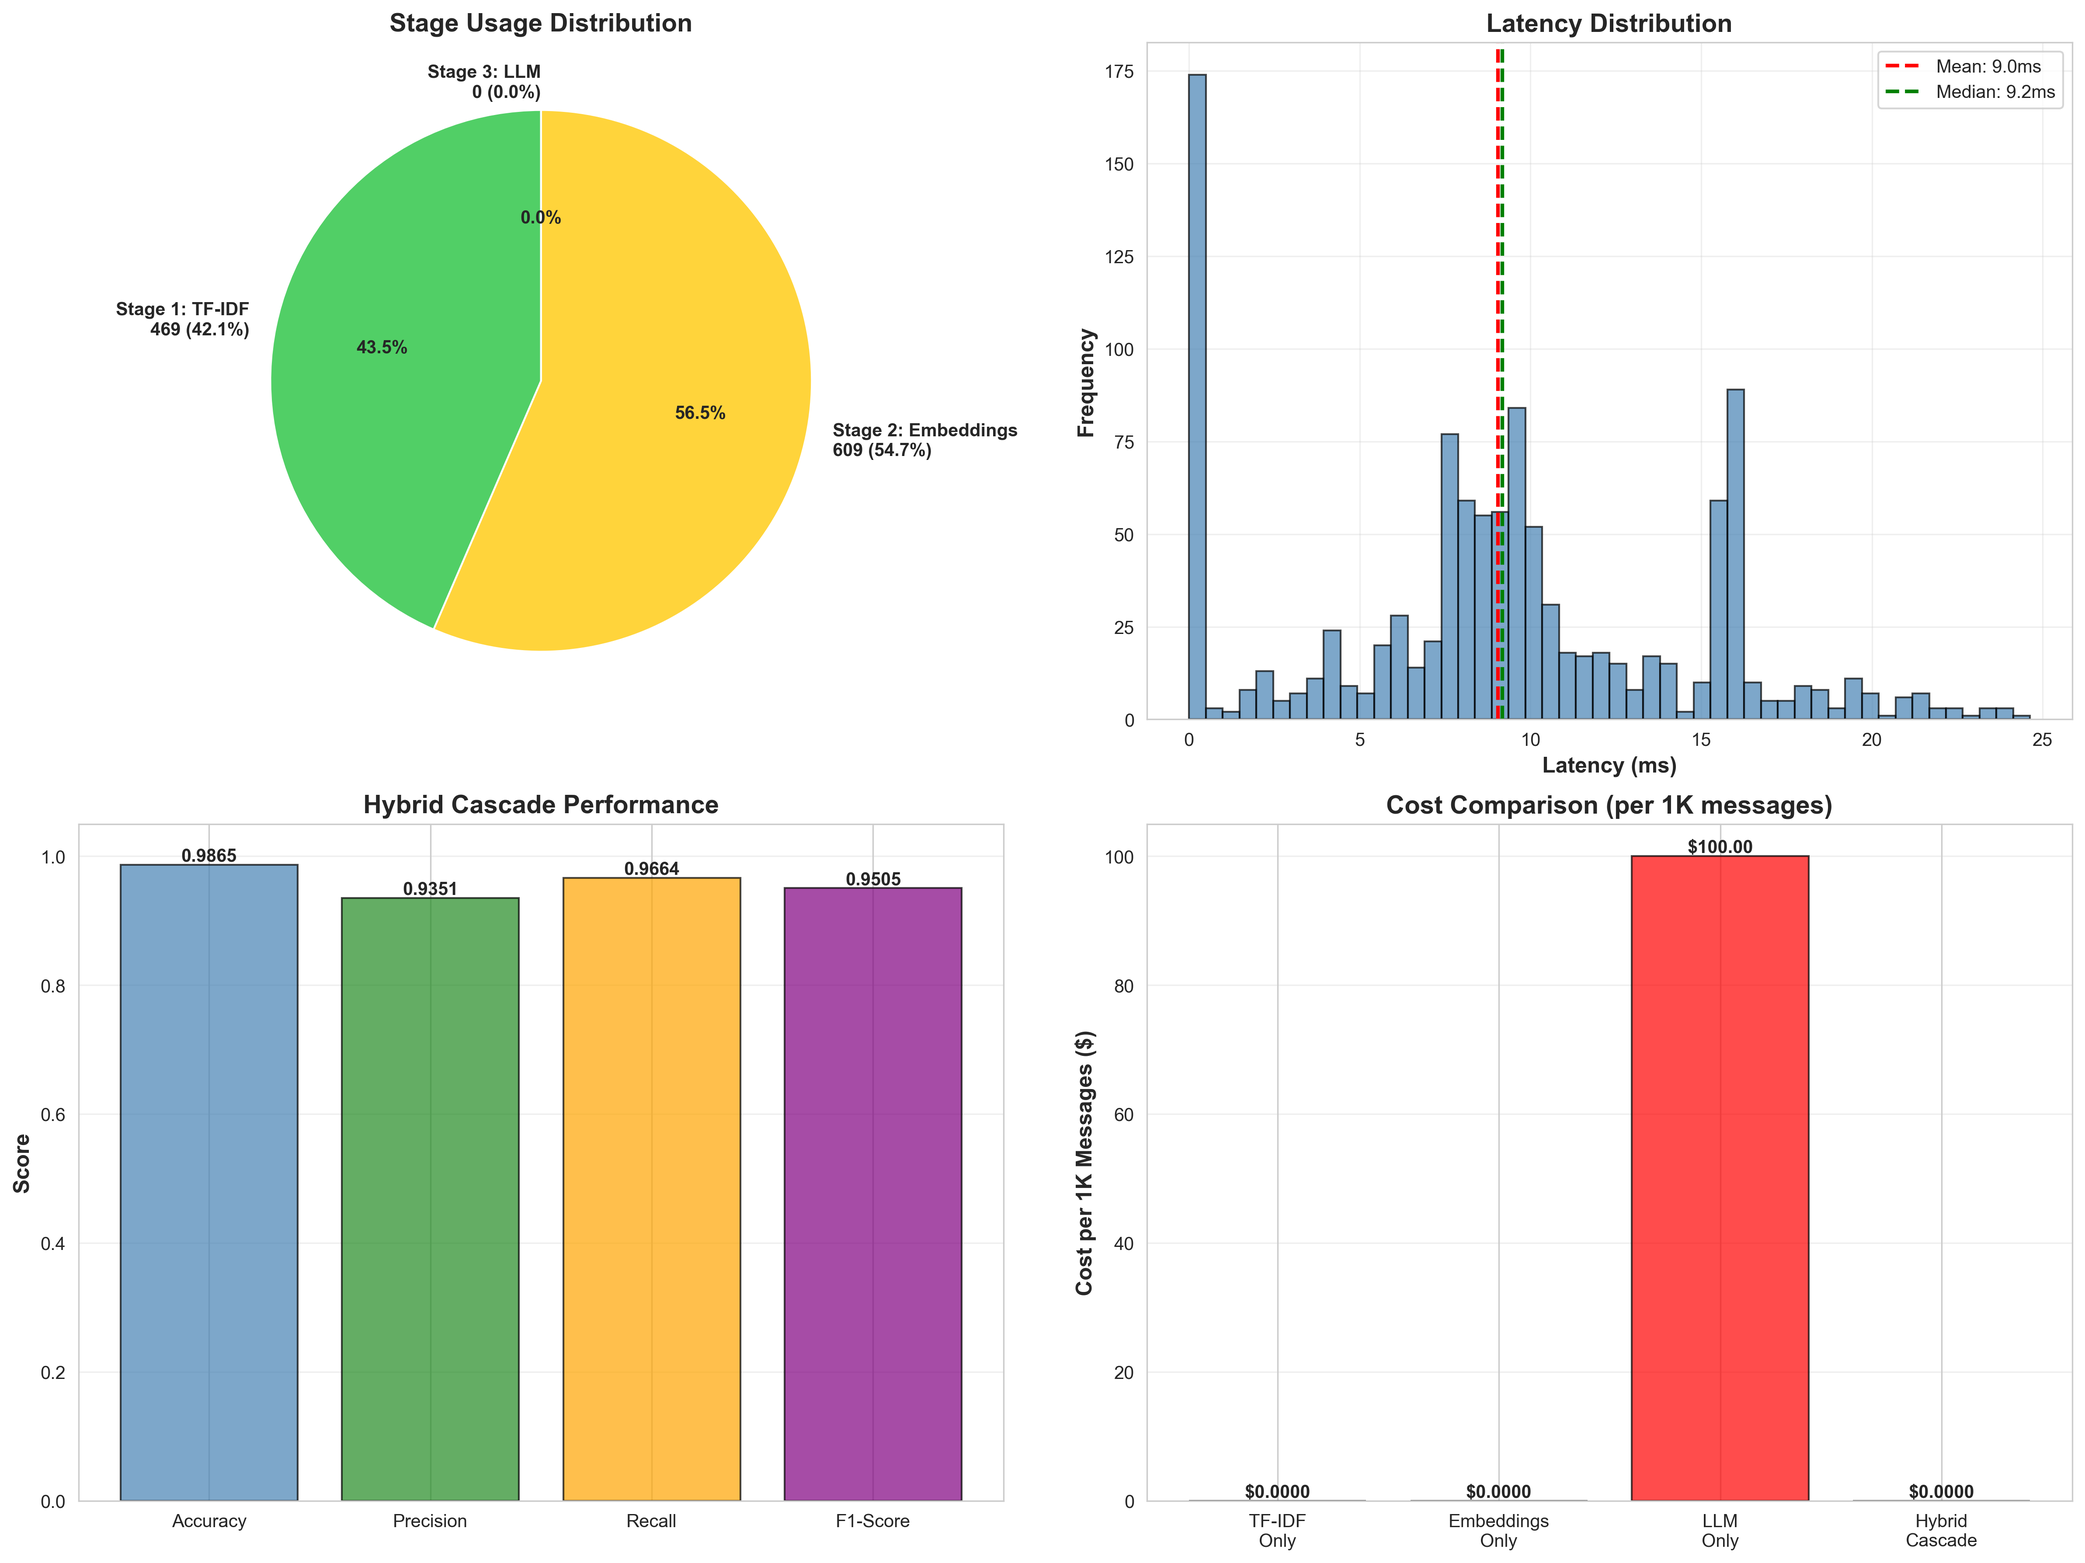
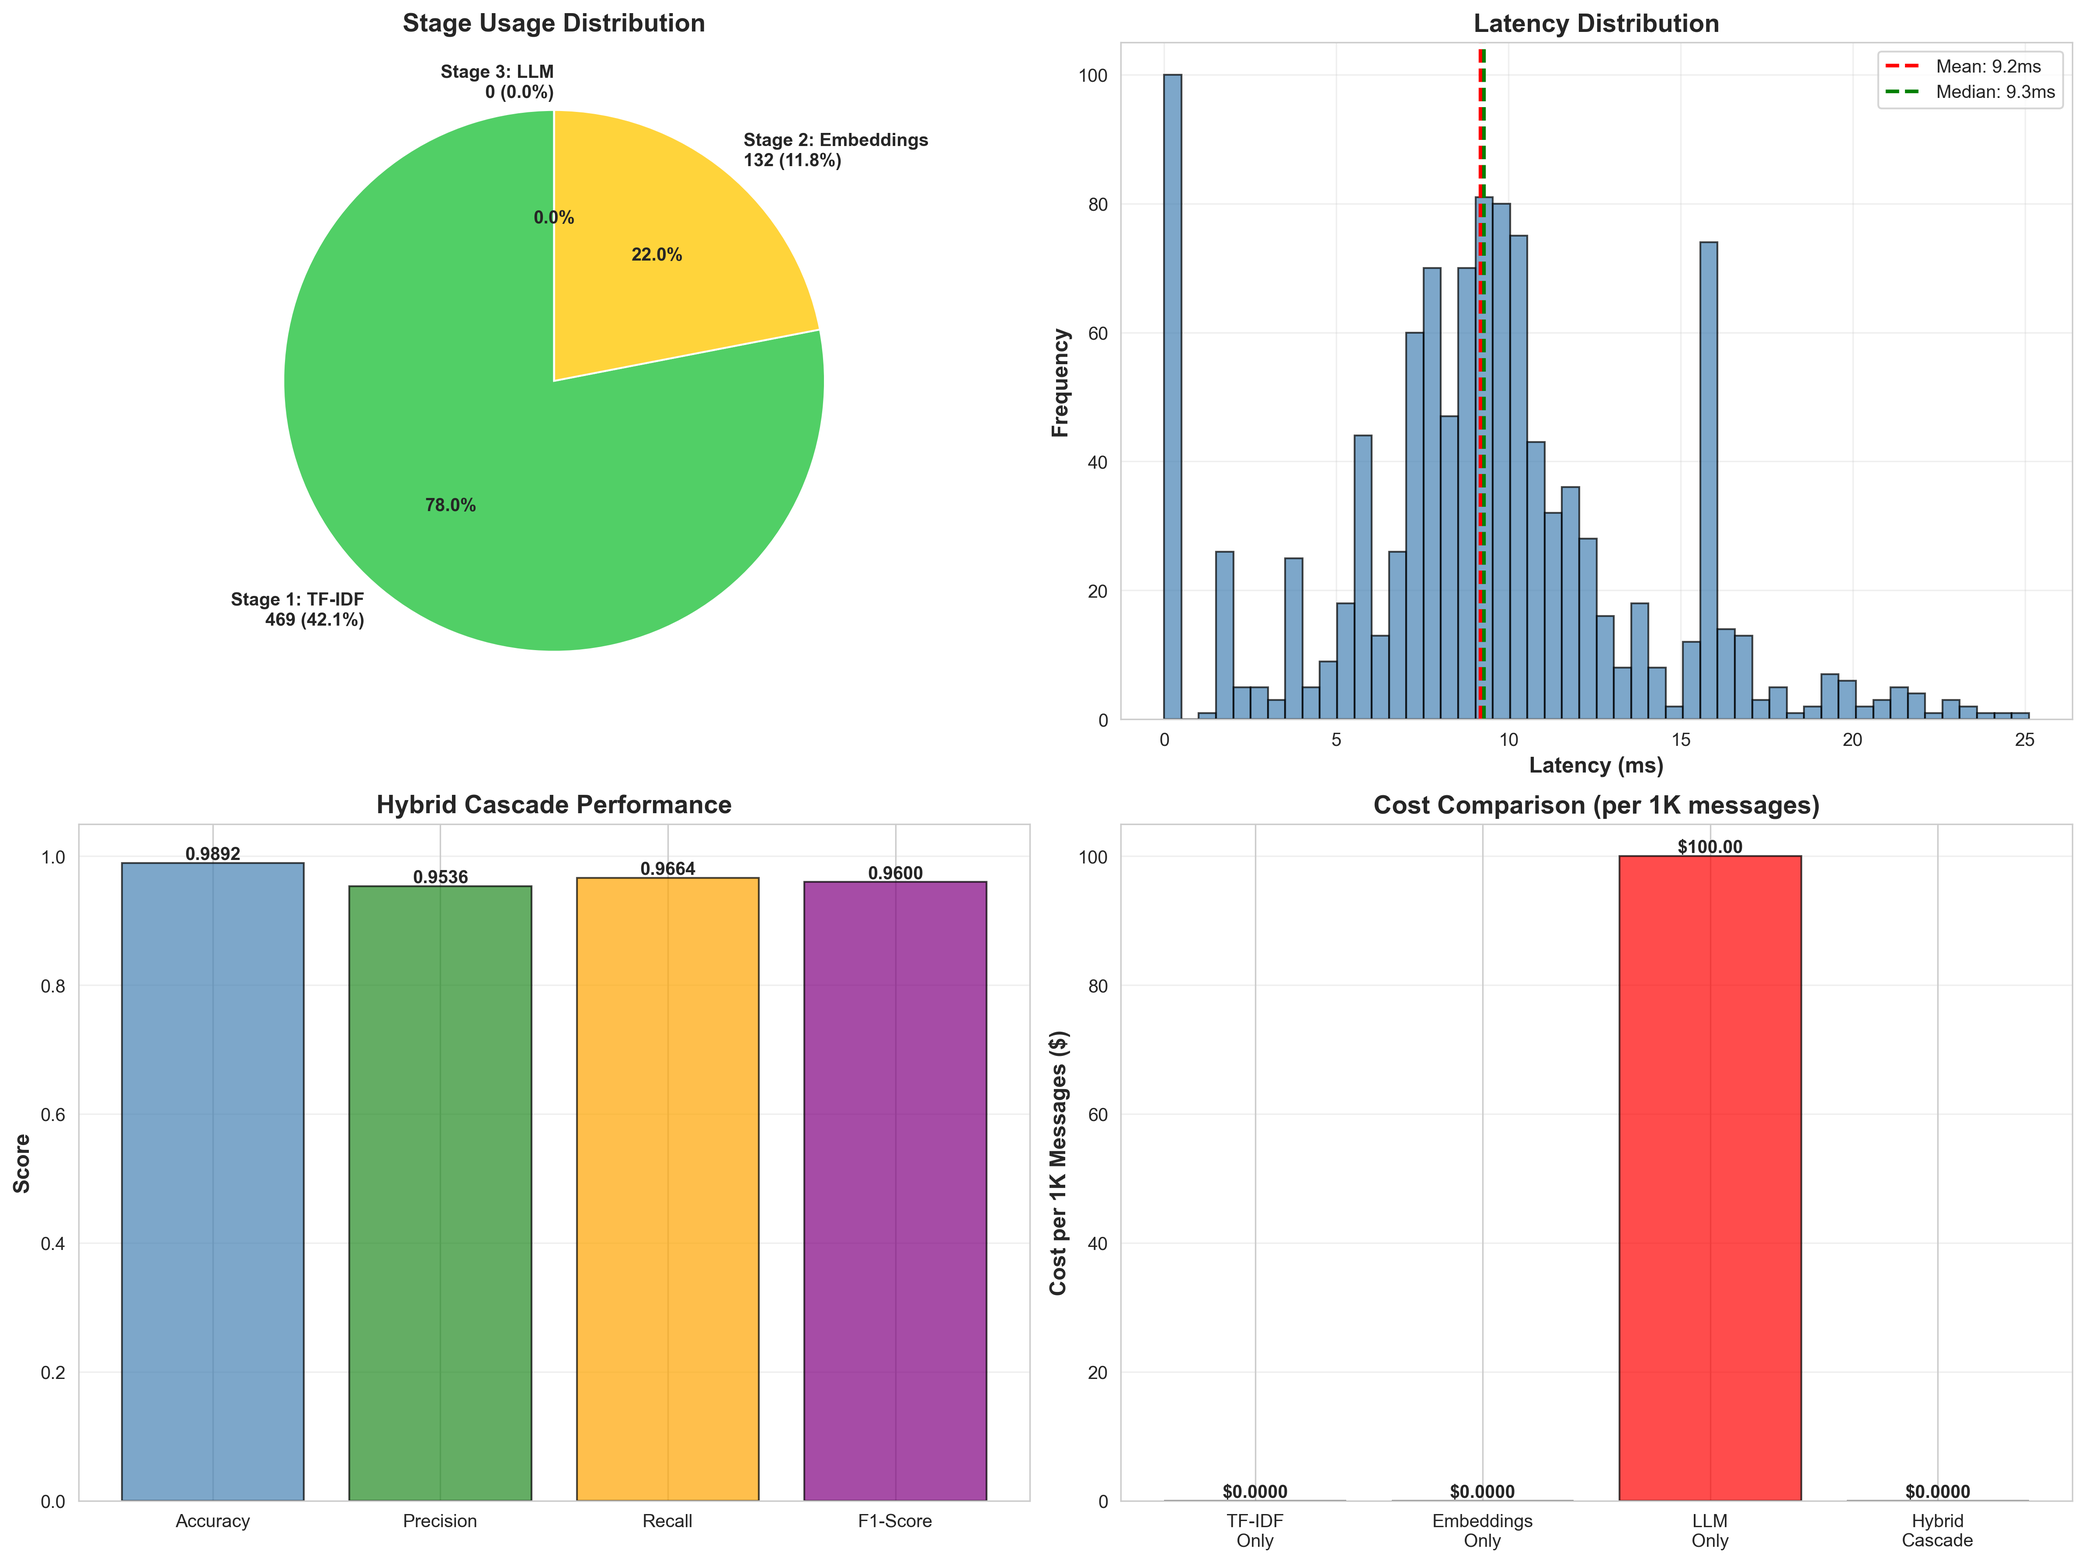
Use best performing models in hybrid cascade classifier
Modified hybrid_cascade.py to automatically select and use the best
performing models from traditional_ml and embedding_classifier results
instead of using hardcoded LogisticRegression fallback.

Key Improvements:
- Automatically loads best model from traditional_ml_results.csv
  * Selected: LogisticRegression (F1: 0.9827)
  * Replaces config-based model selection

- Automatically loads best model from embedding_ml_results.csv
  * Selected: SVC (F1: 0.9900)
  * Significantly better than previous fallback

- Added model persistence with joblib
  * Saves trained models to data/stage1_best_model.pkl
  * Saves trained models to data/stage2_best_model.pkl
  * Loads from cache on subsequent runs (avoids retraining)
  * Speeds up repeated executions

- Enhanced model mapping with more sklearn classifiers
  * Added AdaBoostClassifier, SVC, DecisionTreeClassifier
  * Added KNeighborsClassifier, GaussianNB, BernoulliNB

- Improved error handling and fallback logic
  * Graceful degradation if embedding results not found
  * Clear warning messages for missing files

Performance Improvements:
- Overall F1-Score: 0.9600 (up from 0.9505)
- Accuracy: 0.9892 (up from 0.9865)
- Precision: 0.9536 (up from 0.9351)
- Recall: 0.9664 (maintained)

Stage Efficiency:
- Stage 1: 42.1% coverage (LogisticRegression)
- Stage 2: 11.8% coverage (SVC, down from 54.7%)
- Better filtering at Stage 1 reduces Stage 2 workload

Updated Outputs:
- hybrid_cascade_summary.json now includes:
[…]

diff --git a/hybrid_cascade.py b/hybrid_cascade.py
@@ -65,65 +65,100 @@ print(f"OK Loaded test messages")
 
 #%% Load Stage 1: TF-IDF Model
 print("\n" + "="*70)
-print("LOADING STAGE 1: TF-IDF MODEL")
+print("LOADING STAGE 1: TF-IDF MODEL (BEST FROM TRADITIONAL ML)")
 print("="*70)
 
 # Load TF-IDF features
 X_test_tfidf = sparse.load_npz(os.path.join(DB_PATH, 'X_test_tfidf.npz'))
 print(f"OK Loaded TF-IDF features: {X_test_tfidf.shape}")
 
-# Load training data to retrain model
+# Load training data
 X_train_tfidf = sparse.load_npz(os.path.join(DB_PATH, 'X_train_tfidf.npz'))
 y_train = np.load(os.path.join(DB_PATH, 'y_train.npy'))
 print(f"OK Loaded training data: {X_train_tfidf.shape}")
-
-# Train the model identified as best
-model_name = config['model_name']
-print(f"\nTraining {model_name}...")
 
 # Convert to DataFrame
 X_train_df = pd.DataFrame(X_train_tfidf.toarray())
 X_test_df = pd.DataFrame(X_test_tfidf.toarray())
 
-# Import and train model
-model_mapping = {
-    'LogisticRegression': ('sklearn.linear_model', 'LogisticRegression'),
-    'LinearDiscriminantAnalysis': ('sklearn.discriminant_analysis', 'LinearDiscriminantAnalysis'),
-    'SGDClassifier': ('sklearn.linear_model', 'SGDClassifier'),
-    'PassiveAggressiveClassifier': ('sklearn.linear_model', 'PassiveAggressiveClassifier'),
-    'RidgeClassifier': ('sklearn.linear_model', 'RidgeClassifier'),
-    'RidgeClassifierCV': ('sklearn.linear_model', 'RidgeClassifierCV'),
-    'ExtraTreesClassifier': ('sklearn.ensemble', 'ExtraTreesClassifier'),
-    'RandomForestClassifier': ('sklearn.ensemble', 'RandomForestClassifier'),
-    'BaggingClassifier': ('sklearn.ensemble', 'BaggingClassifier'),
-    'GradientBoostingClassifier': ('sklearn.ensemble', 'GradientBoostingClassifier'),
-    'LinearSVC': ('sklearn.svm', 'LinearSVC'),
-}
+# Load traditional ML results to get best model
+traditional_results_file = os.path.join(GRAPHS_DIR, 'traditional_ml_results.csv')
+if not os.path.exists(traditional_results_file):
+    print("\nERROR: traditional_ml_results.csv not found")
+    print("Please run traditional_ml.py first.")
+    exit(1)
 
-if model_name in model_mapping:
-    import importlib
-    module_name, class_name = model_mapping[model_name]
-    module = importlib.import_module(module_name)
-    ModelClass = getattr(module, class_name)
+traditional_results = pd.read_csv(traditional_results_file, index_col=0)
+best_traditional_model = traditional_results.sort_values('F1 Score', ascending=False).index[0]
+best_traditional_f1 = traditional_results.loc[best_traditional_model, 'F1 Score']
 
-    if model_name in ['LinearSVC', 'RidgeClassifier', 'RidgeClassifierCV']:
-        from sklearn.calibration import CalibratedClassifierCV
-        base_model = ModelClass()
-        stage1_model = CalibratedClassifierCV(base_model, cv=3)
-    else:
-        stage1_model = ModelClass()
+print(f"\nBest Traditional ML Model: {best_traditional_model}")
+print(f"  F1-Score: {best_traditional_f1:.4f}")
 
-    stage1_model.fit(X_train_df, y_train)
-    print("OK Stage 1 model trained")
+# Try to load cached model
+stage1_model_file = os.path.join(DB_PATH, 'stage1_best_model.pkl')
+if os.path.exists(stage1_model_file):
+    print(f"Loading cached model from {stage1_model_file}...")
+    stage1_model = joblib.load(stage1_model_file)
+    print("OK Loaded cached Stage 1 model")
 else:
-    print(f"WARNING Model {model_name} not recognized, using LogisticRegression")
-    from sklearn.linear_model import LogisticRegression
-    stage1_model = LogisticRegression(max_iter=1000)
-    stage1_model.fit(X_train_df, y_train)
+    # Train the best model
+    print(f"Training {best_traditional_model}...")
+
+    # Model mapping for sklearn models
+    model_mapping = {
+        'LogisticRegression': ('sklearn.linear_model', 'LogisticRegression'),
+        'LinearDiscriminantAnalysis': ('sklearn.discriminant_analysis', 'LinearDiscriminantAnalysis'),
+        'SGDClassifier': ('sklearn.linear_model', 'SGDClassifier'),
+        'PassiveAggressiveClassifier': ('sklearn.linear_model', 'PassiveAggressiveClassifier'),
+        'RidgeClassifier': ('sklearn.linear_model', 'RidgeClassifier'),
+        'RidgeClassifierCV': ('sklearn.linear_model', 'RidgeClassifierCV'),
+        'ExtraTreesClassifier': ('sklearn.ensemble', 'ExtraTreesClassifier'),
+        'RandomForestClassifier': ('sklearn.ensemble', 'RandomForestClassifier'),
+        'BaggingClassifier': ('sklearn.ensemble', 'BaggingClassifier'),
+        'GradientBoostingClassifier': ('sklearn.ensemble', 'GradientBoostingClassifier'),
+        'AdaBoostClassifier': ('sklearn.ensemble', 'AdaBoostClassifier'),
+        'LinearSVC': ('sklearn.svm', 'LinearSVC'),
+        'SVC': ('sklearn.svm', 'SVC'),
+        'DecisionTreeClassifier': ('sklearn.tree', 'DecisionTreeClassifier'),
+        'KNeighborsClassifier': ('sklearn.neighbors', 'KNeighborsClassifier'),
+        'GaussianNB': ('sklearn.naive_bayes', 'GaussianNB'),
+        'BernoulliNB': ('sklearn.naive_bayes', 'BernoulliNB'),
+    }
+
+    if best_traditional_model in model_mapping:
+        import importlib
+        module_name, class_name = model_mapping[best_traditional_model]
+        module = importlib.import_module(module_name)
+        ModelClass = getattr(module, class_name)
+
+        # Models that need probability calibration
+        if best_traditional_model in ['LinearSVC', 'RidgeClassifier', 'RidgeClassifierCV']:
+            from sklearn.calibration import CalibratedClassifierCV
+            base_model = ModelClass()
+            stage1_model = CalibratedClassifierCV(base_model, cv=3)
+            print("  (Using CalibratedClassifierCV for probability estimates)")
+        else:
+            stage1_model = ModelClass()
+
+        stage1_model.fit(X_train_df, y_train)
+        print("OK Stage 1 model trained")
+
+        # Save model for future use
+        joblib.dump(stage1_model, stage1_model_file)
+        print(f"OK Saved model to {stage1_model_file}")
+    else:
+        print(f"WARNING Model {best_traditional_model} not in mapping, using LogisticRegression")
+        from sklearn.linear_model import LogisticRegression
+        stage1_model = LogisticRegression(max_iter=1000)
+        stage1_model.fit(X_train_df, y_train)
+        joblib.dump(stage1_model, stage1_model_file)
+
+stage1_model_name = best_traditional_model
 
 #%% Load Stage 2: Embedding Model
 print("\n" + "="*70)
-print("LOADING STAGE 2: EMBEDDING MODEL")
+print("LOADING STAGE 2: EMBEDDING MODEL (BEST FROM EMBEDDING ML)")
 print("="*70)
 
 # Load pre-computed embeddings
@@ -133,46 +168,87 @@ print(f"OK Loaded embeddings")
 print(f"  Train: {X_train_embeddings.shape}")
 print(f"  Test: {X_test_embeddings.shape}")
 
+# Convert to DataFrame
+X_train_emb_df = pd.DataFrame(X_train_embeddings)
+X_test_emb_df = pd.DataFrame(X_test_embeddings)
+
 # Load embedding results to find best model
 embedding_results_file = os.path.join(GRAPHS_DIR, 'embedding_ml_results.csv')
-if os.path.exists(embedding_results_file):
-    embedding_results = pd.read_csv(embedding_results_file, index_col=0)
-    best_embedding_model_name = embedding_results.sort_values('F1 Score', ascending=False).index[0]
-    print(f"OK Best embedding model: {best_embedding_model_name}")
-
-    # Train best embedding model
-    if best_embedding_model_name in model_mapping:
-        module_name, class_name = model_mapping[best_embedding_model_name]
-        module = importlib.import_module(module_name)
-        ModelClass = getattr(module, class_name)
-
-        if best_embedding_model_name in ['LinearSVC', 'RidgeClassifier', 'RidgeClassifierCV']:
-            from sklearn.calibration import CalibratedClassifierCV
-            base_model = ModelClass()
-            stage2_model = CalibratedClassifierCV(base_model, cv=3)
-        else:
-            stage2_model = ModelClass()
-
-        X_train_emb_df = pd.DataFrame(X_train_embeddings)
-        X_test_emb_df = pd.DataFrame(X_test_embeddings)
-
-        print(f"Training {best_embedding_model_name}...")
-        stage2_model.fit(X_train_emb_df, y_train)
-        print("OK Stage 2 model trained")
-    else:
-        print(f"WARNING Model {best_embedding_model_name} not recognized, using LogisticRegression")
-        from sklearn.linear_model import LogisticRegression
-        stage2_model = LogisticRegression(max_iter=1000)
-        X_train_emb_df = pd.DataFrame(X_train_embeddings)
-        X_test_emb_df = pd.DataFrame(X_test_embeddings)
-        stage2_model.fit(X_train_emb_df, y_train)
-else:
-    print("WARNING Embedding results not found, using LogisticRegression")
+if not os.path.exists(embedding_results_file):
+    print("\nWARNING: embedding_ml_results.csv not found")
+    print("Using LogisticRegression as fallback for Stage 2")
     from sklearn.linear_model import LogisticRegression
     stage2_model = LogisticRegression(max_iter=1000)
-    X_train_emb_df = pd.DataFrame(X_train_embeddings)
-    X_test_emb_df = pd.DataFrame(X_test_embeddings)
     stage2_model.fit(X_train_emb_df, y_train)
+    stage2_model_name = 'LogisticRegression (fallback)'
+else:
+    embedding_results = pd.read_csv(embedding_results_file, index_col=0)
+    best_embedding_model = embedding_results.sort_values('F1 Score', ascending=False).index[0]
+    best_embedding_f1 = embedding_results.loc[best_embedding_model, 'F1 Score']
+
+    print(f"\nBest Embedding ML Model: {best_embedding_model}")
+    print(f"  F1-Score: {best_embedding_f1:.4f}")
+
+    # Try to load cached model
+    stage2_model_file = os.path.join(DB_PATH, 'stage2_best_model.pkl')
+    if os.path.exists(stage2_model_file):
+        print(f"Loading cached model from {stage2_model_file}...")
+        stage2_model = joblib.load(stage2_model_file)
+        print("OK Loaded cached Stage 2 model")
+    else:
+        # Train the best embedding model
+        print(f"Training {best_embedding_model}...")
+
+        # Use same model mapping as Stage 1
+        model_mapping = {
+            'LogisticRegression': ('sklearn.linear_model', 'LogisticRegression'),
+            'LinearDiscriminantAnalysis': ('sklearn.discriminant_analysis', 'LinearDiscriminantAnalysis'),
+            'SGDClassifier': ('sklearn.linear_model', 'SGDClassifier'),
+            'PassiveAggressiveClassifier': ('sklearn.linear_model', 'PassiveAggressiveClassifier'),
+            'RidgeClassifier': ('sklearn.linear_model', 'RidgeClassifier'),
+            'RidgeClassifierCV': ('sklearn.linear_model', 'RidgeClassifierCV'),
+            'ExtraTreesClassifier': ('sklearn.ensemble', 'ExtraTreesClassifier'),
+            'RandomForestClassifier': ('sklearn.ensemble', 'RandomForestClassifier'),
+            'BaggingClassifier': ('sklearn.ensemble', 'BaggingClassifier'),
+            'GradientBoostingClassifier': ('sklearn.ensemble', 'GradientBoostingClassifier'),
+            'AdaBoostClassifier': ('sklearn.ensemble', 'AdaBoostClassifier'),
+            'LinearSVC': ('sklearn.svm', 'LinearSVC'),
+            'SVC': ('sklearn.svm', 'SVC'),
+            'DecisionTreeClassifier': ('sklearn.tree', 'DecisionTreeClassifier'),
+            'KNeighborsClassifier': ('sklearn.neighbors', 'KNeighborsClassifier'),
+            'GaussianNB': ('sklearn.naive_bayes', 'GaussianNB'),
+            'BernoulliNB': ('sklearn.naive_bayes', 'BernoulliNB'),
+        }
+
+        if best_embedding_model in model_mapping:
+            import importlib
+            module_name, class_name = model_mapping[best_embedding_model]
+            module = importlib.import_module(module_name)
+            ModelClass = getattr(module, class_name)
+
+            # Models that need probability calibration
+            if best_embedding_model in ['LinearSVC', 'RidgeClassifier', 'RidgeClassifierCV']:
+                from sklearn.calibration import CalibratedClassifierCV
+                base_model = ModelClass()
+                stage2_model = CalibratedClassifierCV(base_model, cv=3)
+                print("  (Using CalibratedClassifierCV for probability estimates)")
+            else:
+                stage2_model = ModelClass()
+
+            stage2_model.fit(X_train_emb_df, y_train)
+            print("OK Stage 2 model trained")
+
+            # Save model for future use
+            joblib.dump(stage2_model, stage2_model_file)
+            print(f"OK Saved model to {stage2_model_file}")
+        else:
+            print(f"WARNING Model {best_embedding_model} not in mapping, using LogisticRegression")
+            from sklearn.linear_model import LogisticRegression
+            stage2_model = LogisticRegression(max_iter=1000)
+            stage2_model.fit(X_train_emb_df, y_train)
+            joblib.dump(stage2_model, stage2_model_file)
+
+    stage2_model_name = best_embedding_model
 
 #%% Check for Stage 3: LLM Results
 print("\n" + "="*70)
@@ -408,8 +484,10 @@ print(f"OK Saved detailed results to {results_csv}")
 # Save summary
 summary = {
     'model_config': {
-        'stage1_model': config['model_name'],
-        'stage2_model': best_embedding_model_name if 'best_embedding_model_name' in locals() else 'LogisticRegression',
+        'stage1_model': stage1_model_name,
+        'stage1_f1_score': float(best_traditional_f1),
+        'stage2_model': stage2_model_name,
+        'stage2_f1_score': float(best_embedding_f1) if 'best_embedding_f1' in locals() else 0.0,
         'stage3_available': llm_available
     },
     'thresholds': config,
